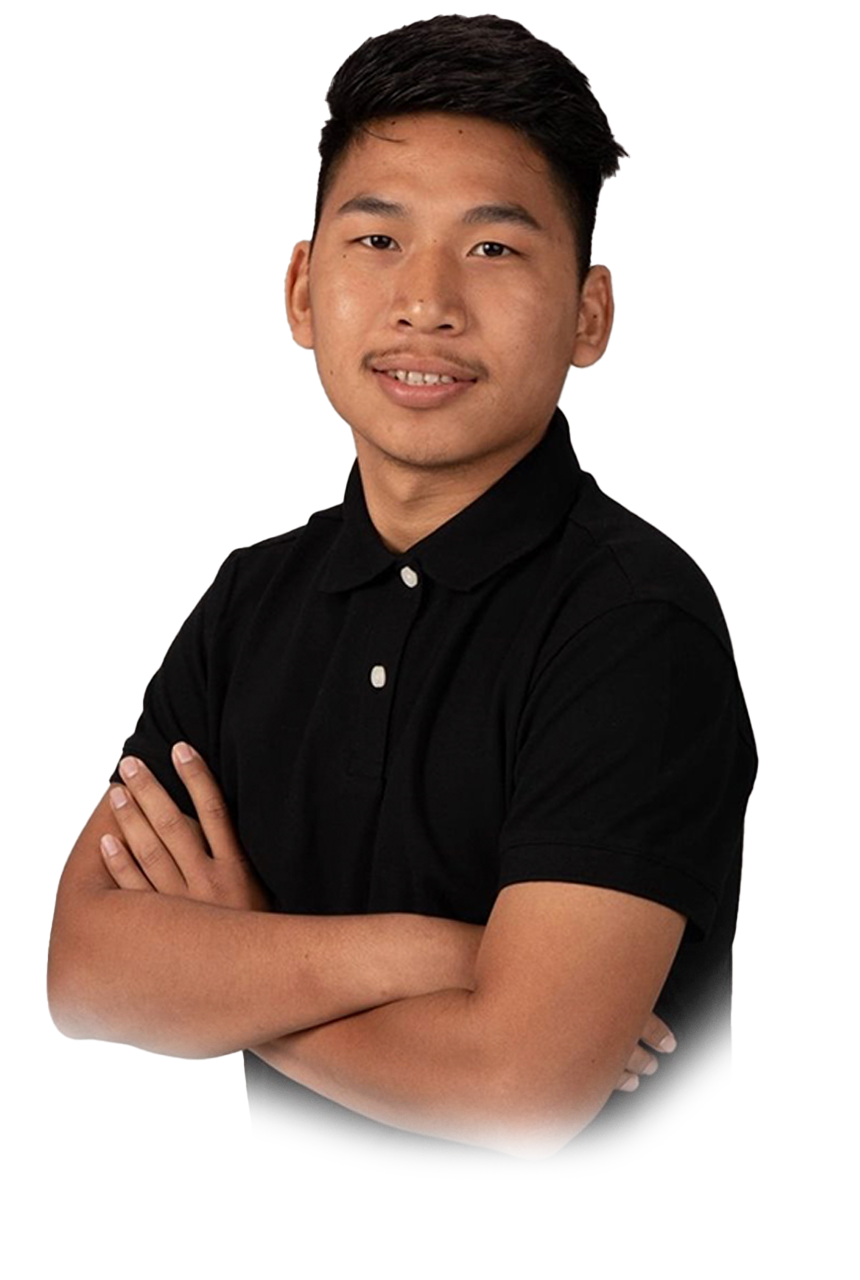
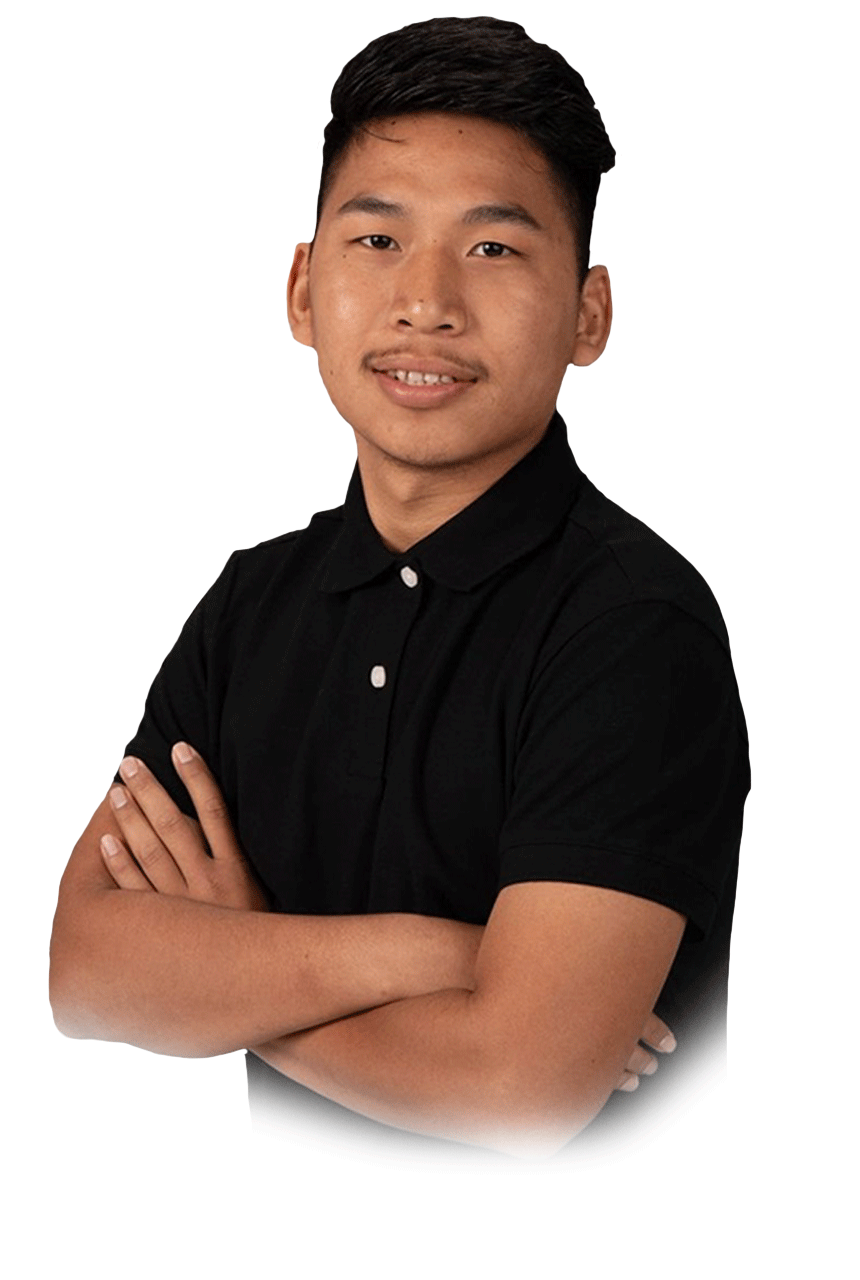
fixing random stuff

diff --git a/src/Header.jsx b/src/Header.jsx
@@ -8,10 +8,11 @@ const Header = () => {
           <div className="col-12 col-lg-6 header-left-side d-flex justify-content-center flex-column aign-items-start">
             <h1 className="display-1">Hello, I am a Frontend Developer</h1>
             <p className="main-hero-para">
-              Lorem ipsum dolor sit amet, consectetur adipisicing elit. Commodi
-              libero perferendis et quibusdam impedit! Quas repellendus alias
-              fugit doloribus. Mollitia commodi ducimus culpa odit animi non
-              accusantium, dolor eum assumenda?
+              I am a frontend developer skilled in React JS, creating
+              interactive user interfaces and implementing complex logic. I have
+              a passion for designing seamless user experiences and staying
+              current with industry trends. Committed to writing clean,
+              maintainable code and delivering high-quality results.
             </p>
             <button className="primary-btn">Let's Talk</button>
           </div>
@@ -19,7 +20,7 @@ const Header = () => {
             <div className="object-fit-wrapper">
               <picture>
                 <img
-                  src="./images/hero-img-1.png"
+                  src="./images/final-hero-img.png"
                   className="object-fit-bg"
                   alt=""
                 />

diff --git a/src/Services.jsx b/src/Services.jsx
@@ -8,12 +8,12 @@ const Services = () => {
       <section className="service-main-container">
         <div className="container service-container">
           <h1 className="main-heading text-center">My Skills Set</h1>
-          <div className="row">
+          <div className="row d-flex justify-content-center">
             {serviceData.map((curElem) => {
               const { id, title, info } = curElem;
               return (
                 <div
-                  className="col-11 col-lg-4 col-xxl-4 work-container-subdiv"
+                  className="col-12 col-lg-4 col-xxl-4 work-container-subdiv"
                   key={id}>
                   <h2 className="sub-heading">{title}</h2>
                   <p className="main-hero-para">{info}</p>

diff --git a/src/index.css b/src/index.css
@@ -197,9 +197,7 @@ header{
 }
 
 
-.work-container-subdiv:hover{
-    background-color: var(--primary-color);
-}
+
 .work-container-subdiv  .sub-heading:hover{
     color: #fff;
 }
